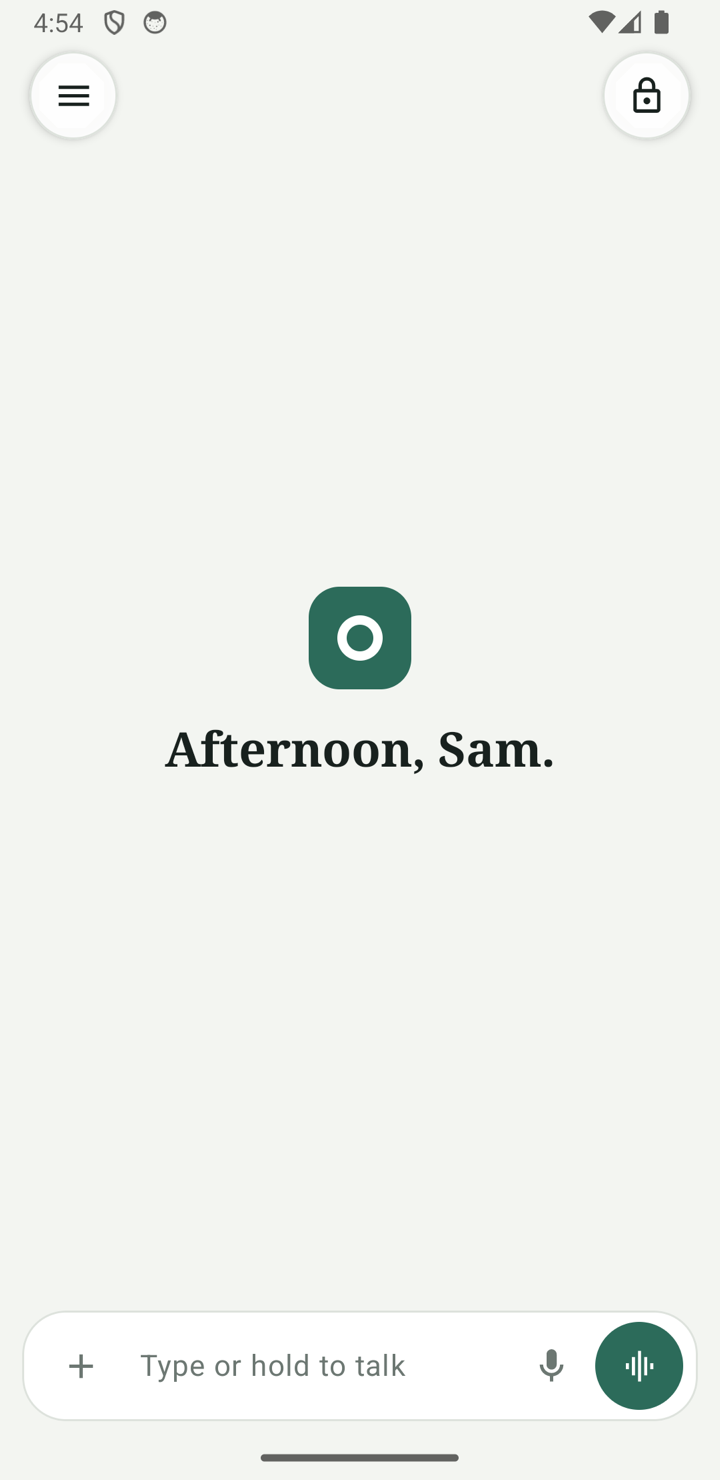
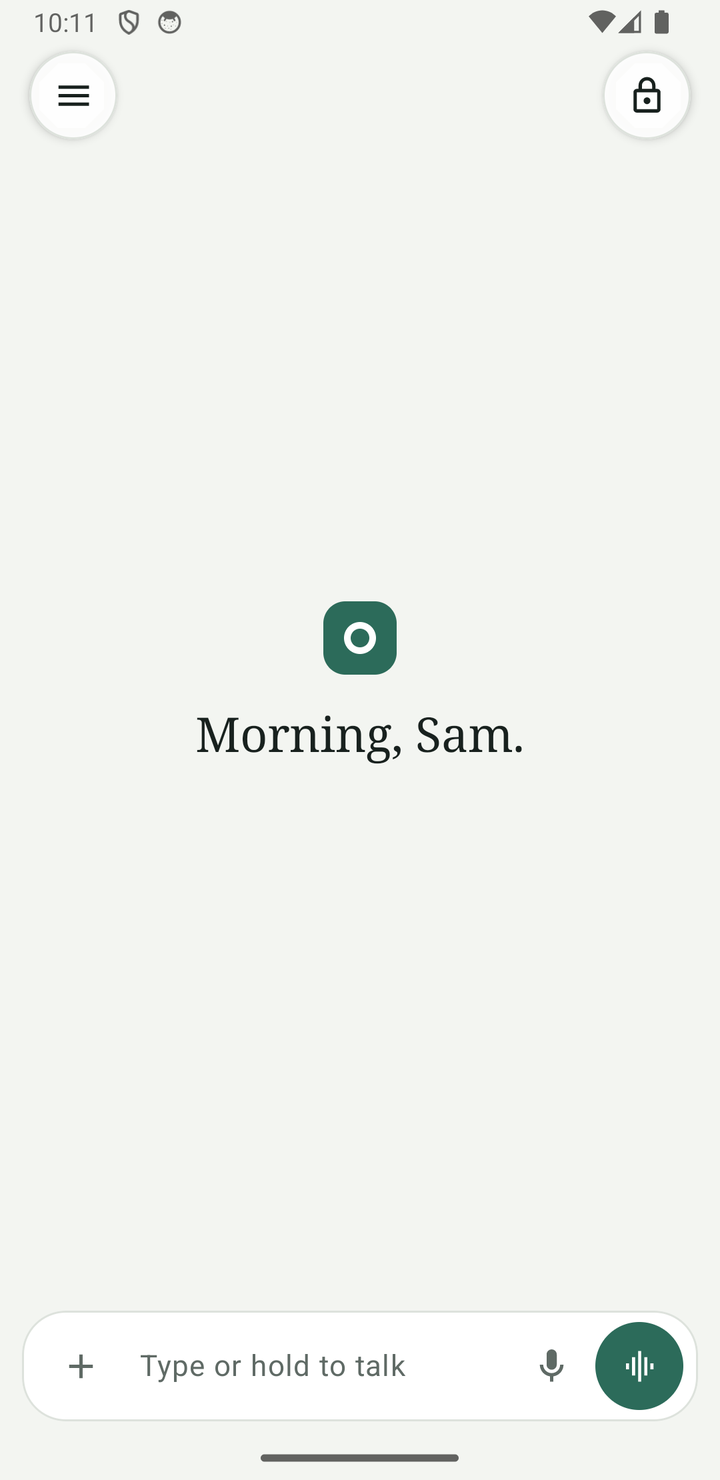
docs: retake the readme's pictures with the new chat list, greeting and plus menu - Update `docs/screenshots` retake the greeting, chat, research, side list and plus menu pictures - Update `README.md` describe the plus menu picture as it is now

Changed region(s): [[0.2139, 0.373, 0.7639, 0.5284], [0.0306, 0.0, 0.2444, 0.0311]]

diff --git a/README.md b/README.md
@@ -78,7 +78,7 @@ a design and a feature list, not code.
 | | | |
 |---|---|---|
 | <img src="docs/screenshots/greeting.png" alt="An empty chat greeting Sam by name" width="240"><br>A new chat greets you by name | <img src="docs/screenshots/chat.png" alt="A reply with a Kotlin code block and a list" width="240"><br>A reply with code | <img src="docs/screenshots/research.png" alt="A research report with a table and numbered sources" width="240"><br>Deep research with its sources |
-| <img src="docs/screenshots/canvas.png" alt="A Pomodoro timer page open in the canvas" width="240"><br>A page open in the canvas | <img src="docs/screenshots/voice.png" alt="The voice conversation screen, listening" width="240"><br>A voice conversation | <img src="docs/screenshots/plus-menu.png" alt="The composer's + menu: file, photo, library, picture, schedule a task" width="240"><br>The + menu |
+| <img src="docs/screenshots/canvas.png" alt="A Pomodoro timer page open in the canvas" width="240"><br>A page open in the canvas | <img src="docs/screenshots/voice.png" alt="The voice conversation screen, listening" width="240"><br>A voice conversation | <img src="docs/screenshots/plus-menu.png" alt="The composer's + menu: file, photo, library, picture, read replies aloud, schedule a task, new project" width="240"><br>The + menu |
 | <img src="docs/screenshots/drawer.png" alt="The side list with a project, pinned, scheduled task and dated chats" width="240"><br>The side list | <img src="docs/screenshots/project.png" alt="Editing the Garden project's name, instructions and files" width="240"><br>A project | <img src="docs/screenshots/lock.png" alt="The lock screen with its Unlock button" width="240"><br>The lock |
 | <img src="docs/screenshots/settings.png" alt="Settings: profile, memory, follow-ups, web search, scheduled tasks, voice, pictures" width="240"><br>Settings | <img src="docs/screenshots/settings-bottom.png" alt="Settings: theme, vibration, lock, servers, sync and erase" width="240"><br>More settings | <img src="docs/screenshots/servers.png" alt="The four server addresses with Test connection" width="240"><br>Servers |
 | <img src="docs/screenshots/sync.png" alt="Sync: hub address, access key, the switch and the last sync" width="240"><br>Sync | <img src="docs/screenshots/tasks.png" alt="Three scheduled tasks with their schedules, models and switches" width="240"><br>Scheduled tasks | <img src="docs/screenshots/task-editor.png" alt="Editing the Morning briefing task with the Automatic model" width="240"><br>A task |
